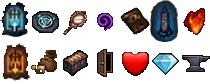
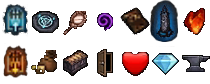
- small fixes to the elements images, and positioning - map_editor     - fix, missing argument in MapEditor.addLabel() call     - be able to add all the label types

diff --git a/map_editor/static/menu.js b/map_editor/static/menu.js
@@ -109,7 +109,7 @@ var x = (canvas.getWidth() / 2 - topLevelContainer.x) / scale;
 var y = (canvas.getHeight() / 2 - topLevelContainer.y) / scale;
 
 var type = new Game.Html.MultipleOptions({
-        options: [ 'cave_entrance', 'cave_exit' ]
+        options: [ 'cave_exit', 'waypoint', 'wardrobe', 'mystic', 'book_of_cain', 'nephalem_obelisk', 'kadala', 'cave_entrance', 'merchant', 'stash', 'door', 'healer', 'jeweler', 'blacksmith' ]
     });
 var id = new Game.Html.Text({
         preText: 'Id:'

diff --git a/map_editor/static/map_editor.js b/map_editor/static/map_editor.js
@@ -275,7 +275,7 @@ if ( typeof mapInfo.labels !== 'undefined' )
         var id = labelsIds[ a ];
         var labelInfo = mapInfo.labels[ id ];
 
-        MapEditor.addLabel( labelInfo.x, labelInfo.y, labelInfo.imageId, id, labelInfo.text, labelInfo.destination );
+        MapEditor.addLabel( labelInfo.x, labelInfo.y, labelInfo.imageId, id, labelInfo.text, labelInfo.destination, labelInfo.destinationLabel );
         }
     }
 

diff --git a/scripts/main.js b/scripts/main.js
@@ -232,7 +232,6 @@ document.body.appendChild( menu.container );
 Main.load = function( mapId, mapPosition )
 {
 clear();
-
 var mapInfo = MAPS_INFO[ mapId ];
 
 

diff --git a/style.css b/style.css
@@ -62,6 +62,7 @@ body
 .Game-MultipleOptions span
     {
     padding: 5px;
+    display: inline-block;
     }
 
 .Game-selected
